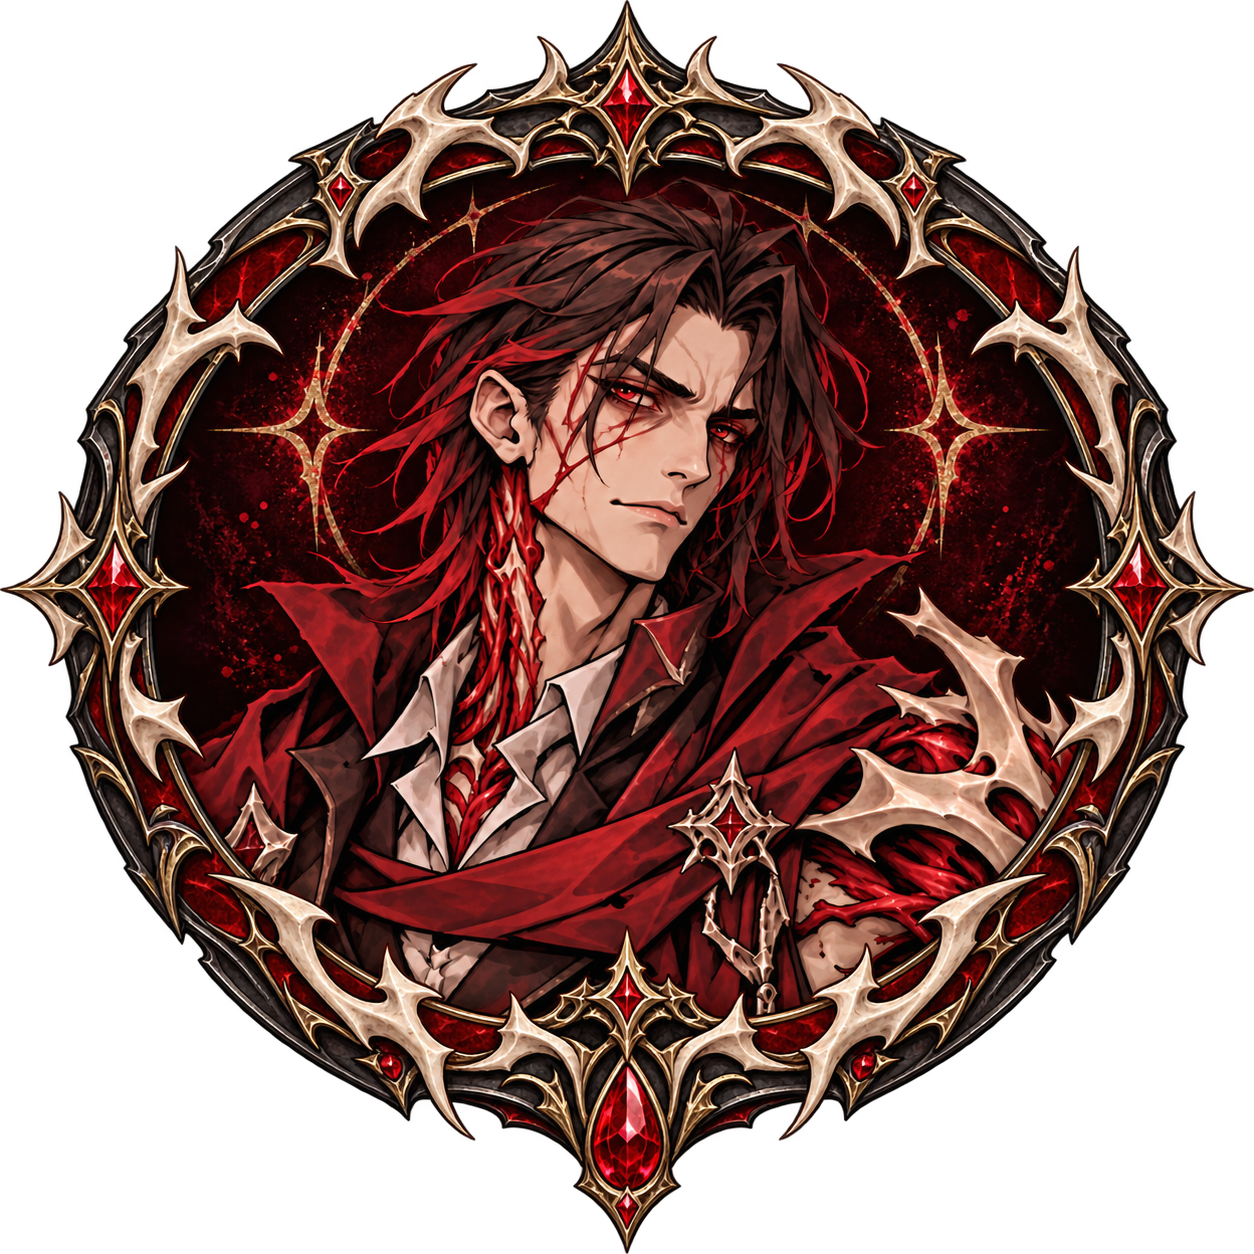
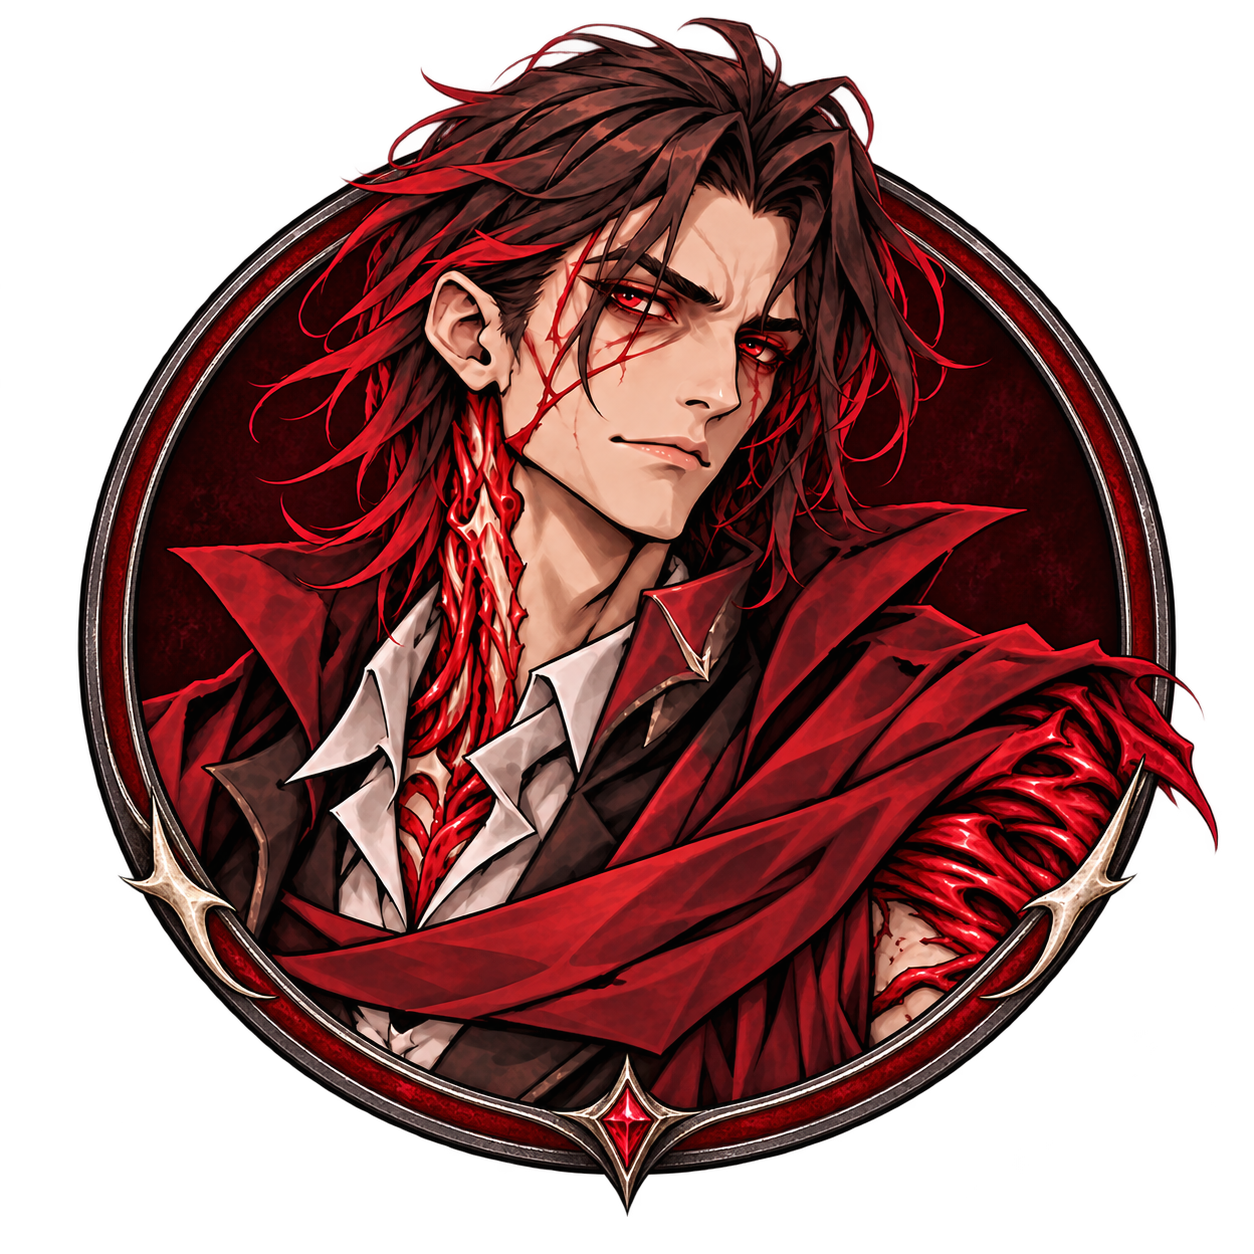
Simplify named token frames and let portraits overlap the rim

diff --git a/RELEASE_NOTES.md b/RELEASE_NOTES.md
@@ -1,10 +1,9 @@
-# 3.10.3 — Парадные токены именных NPC
+# 3.10.4 — Лаконичные рамки именных токенов
 
-Добавлены вторые варианты для Эдрика Вальтера и Эмили Ясати: индивидуальные декоративные рамки и фон, подготовленные с помощью imagegen. Прежние файлы сохранены и остаются основными. Характеристики и боевые механики не менялись.
+Упрощены вторые варианты Эдрика и Эмили: тонкая рамка, меньше украшений, волосы и плечи немного выходят за круг. Прозрачный фон сохранён.
 
-В настройках изображения токена выберите файл из папки `modules/bagrovoe-bleeding/assets/tokens/named/`:
+- Новые варианты: `modules/bagrovoe-bleeding/assets/tokens/named/edrik-valter.png` и `emili-yasati.png` в той же папке.
+- Предыдущие украшенные версии сохранены в `assets/tokens/named/ornate/`.
+- Обычные токены в `assets/tokens/` не изменены.
 
-- Эдрик: `edrik-valter.png` — костяные шипы, рубины и тёмное серебро.
-- Эмили: `emili-yasati.png` — розы, серебро и багровое сердце.
-
-Чтобы применять вариант к новым токенам, измените изображение в прототипе токена на листе NPC. Для уже размещённого токена измените его собственное изображение. Прежние варианты находятся непосредственно в `assets/tokens/` под теми же именами.
+Если именной вариант уже выбран, после обновления перезагрузите клиент; при старом изображении в браузере нажмите Ctrl+F5. Изменения только визуальные.

diff --git a/CHANGELOG.md b/CHANGELOG.md
@@ -1,3 +1,13 @@
+# 3.10.4 — Лаконичные рамки именных токенов
+
+Упрощены вторые варианты Эдрика и Эмили: тонкая рамка, меньше украшений, волосы и плечи немного выходят за круг. Прозрачный фон сохранён.
+
+- Новые варианты: `modules/bagrovoe-bleeding/assets/tokens/named/edrik-valter.png` и `emili-yasati.png` в той же папке.
+- Предыдущие украшенные версии сохранены в `assets/tokens/named/ornate/`.
+- Обычные токены в `assets/tokens/` не изменены.
+
+Если именной вариант уже выбран, после обновления перезагрузите клиент; при старом изображении в браузере нажмите Ctrl+F5. Изменения только визуальные.
+
 # 3.10.3 — Парадные токены именных NPC
 
 Добавлены вторые варианты для Эдрика Вальтера и Эмили Ясати: индивидуальные декоративные рамки и фон, подготовленные с помощью imagegen. Прежние файлы сохранены и остаются основными. Характеристики и боевые механики не менялись.

diff --git a/README.md b/README.md
@@ -1,4 +1,6 @@
-# Обновление 3.10.3
+# Обновление 3.10.4
+
+Рамки именных вариантов упрощены; волосы и плечи немного выступают за круг. Прежние украшенные варианты сохранены в `assets/tokens/named/ornate/`.
 
 Вторые, парадные варианты Эдрика и Эмили доступны в `modules/bagrovoe-bleeding/assets/tokens/named/`. Выберите `edrik-valter.png` или `emili-yasati.png` в настройках изображения токена (или его прототипа). Прежние токены сохранены и остаются основными.
 
